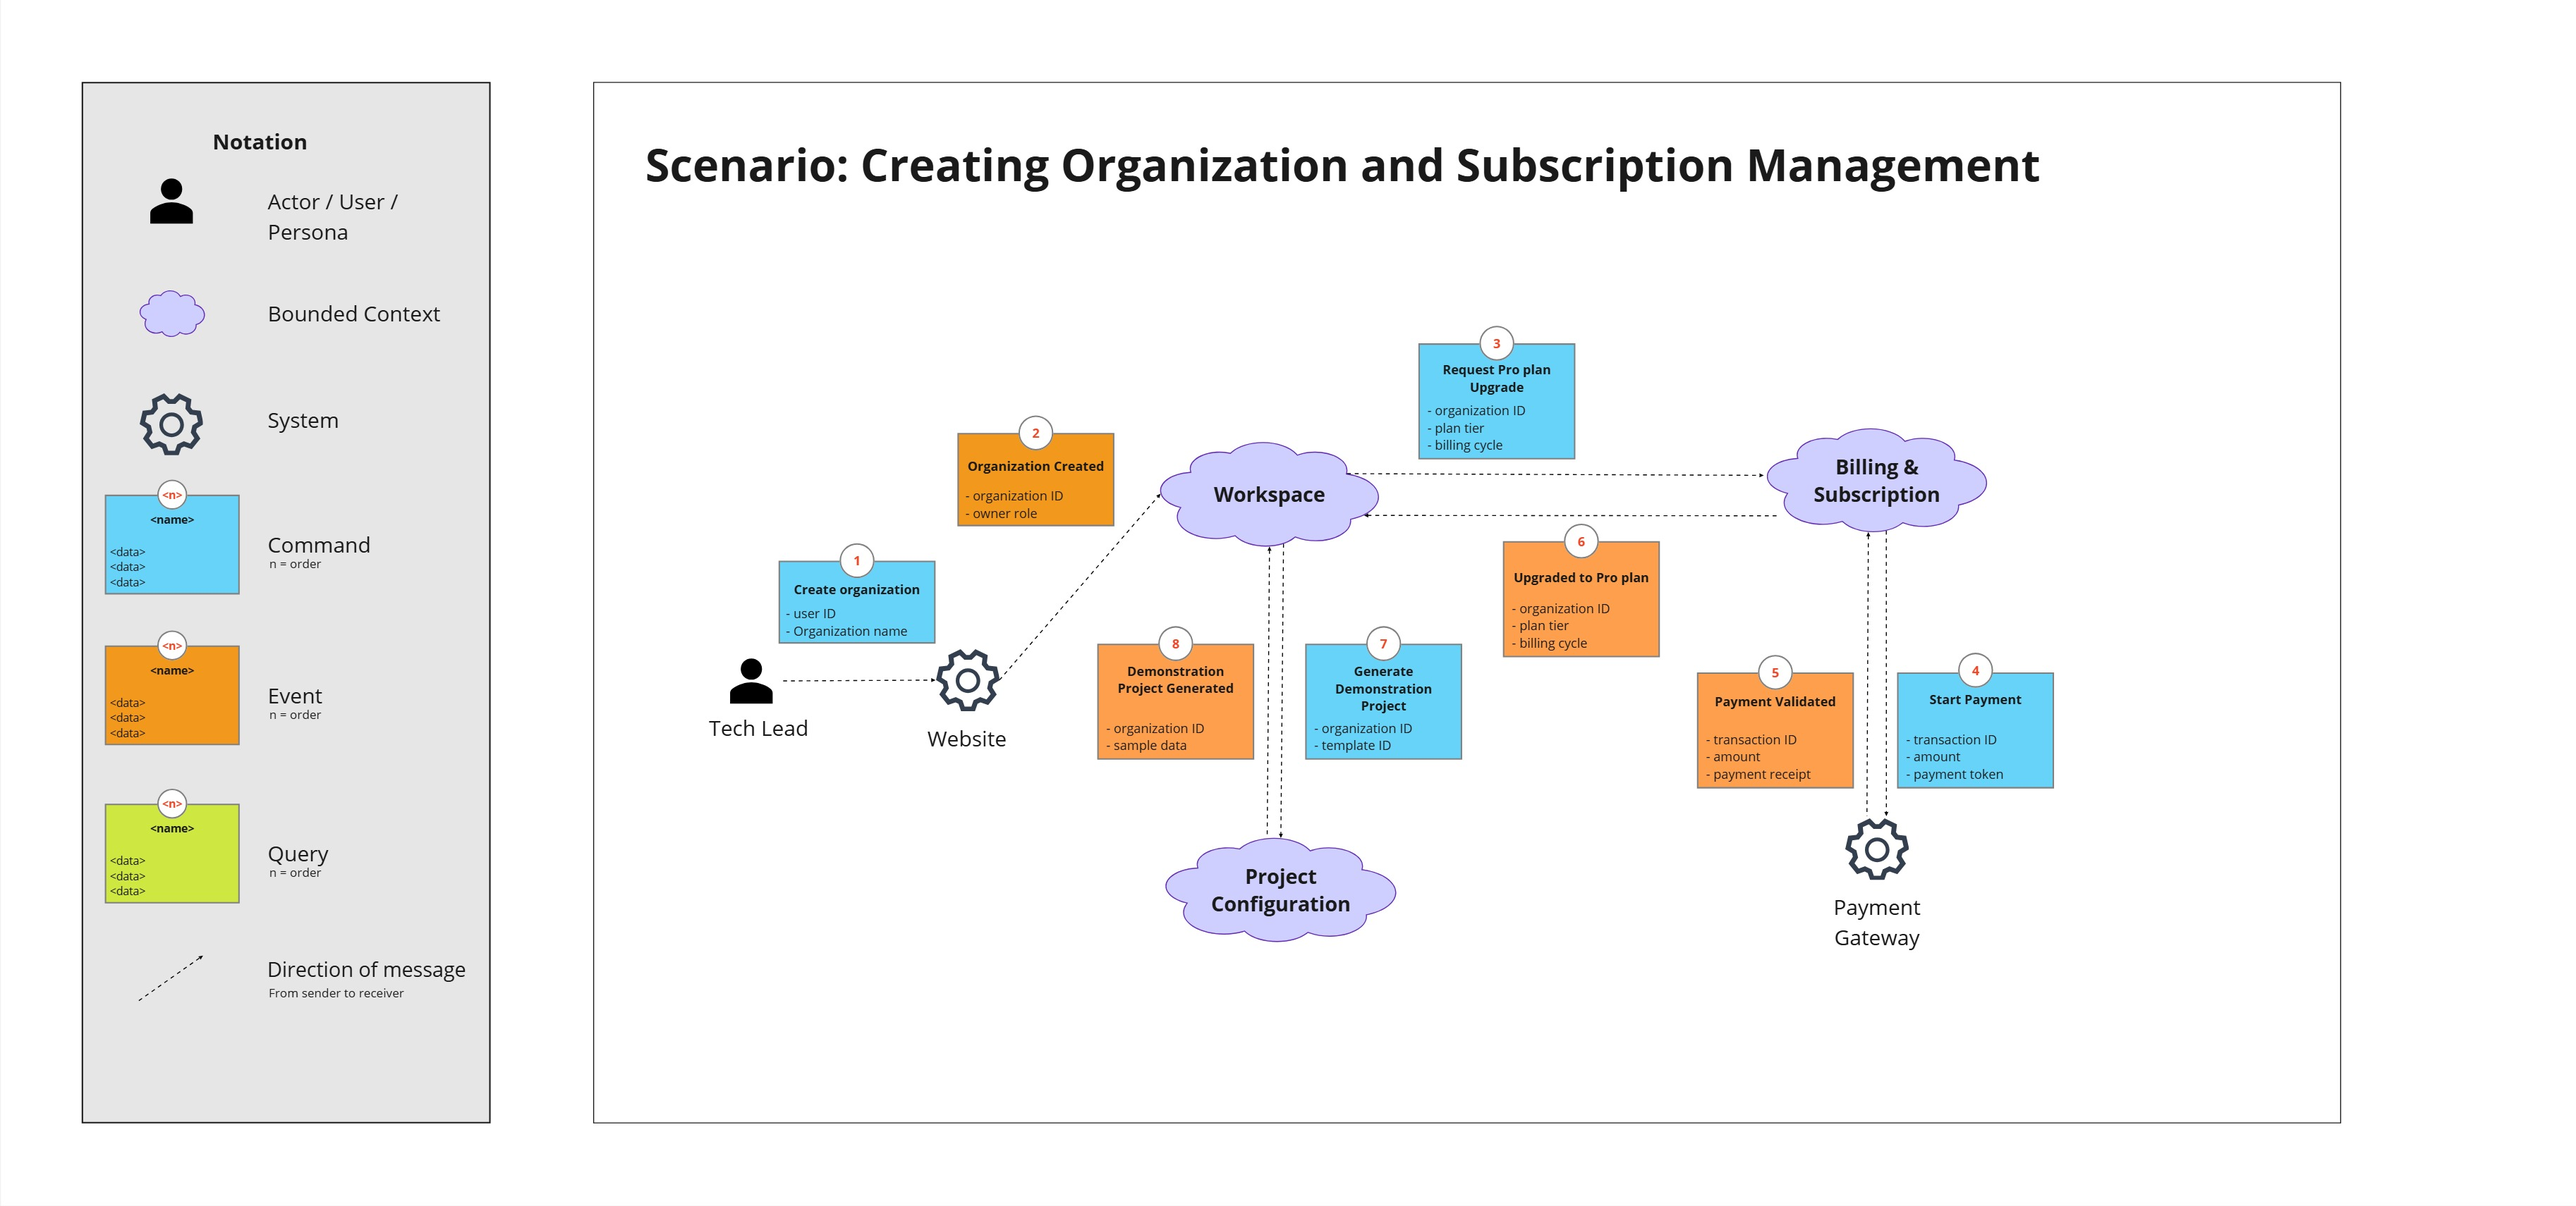
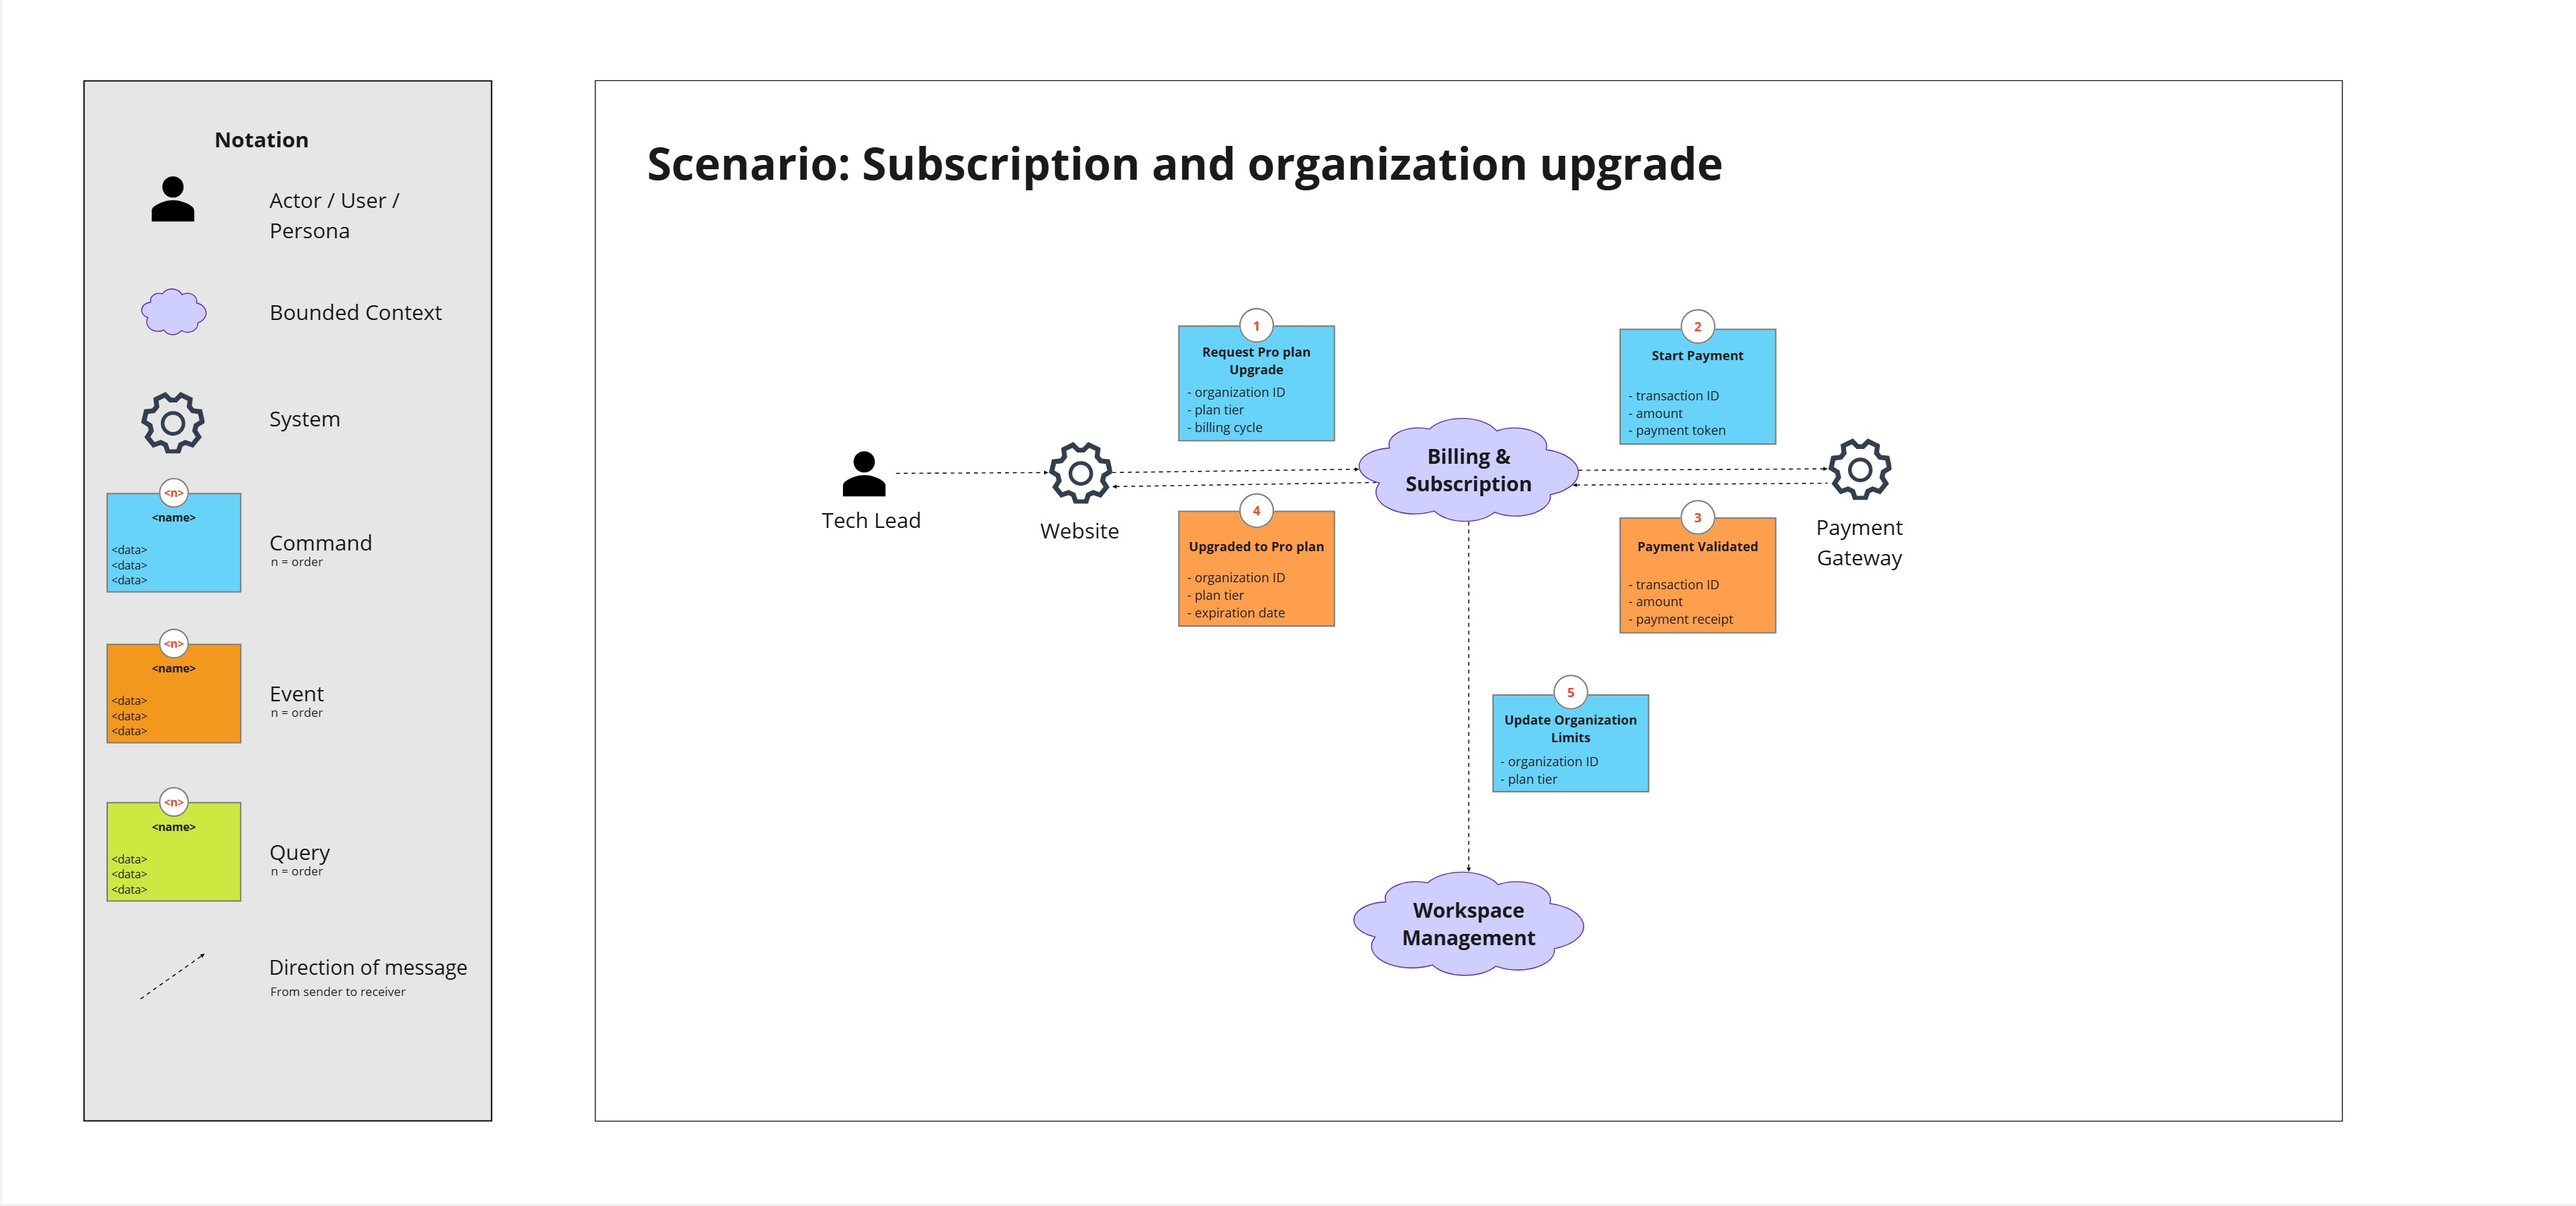
refactor: change domain message flow modeling according to new bounded contexts

diff --git a/README.md b/README.md
@@ -1346,39 +1346,50 @@ A través de este proceso analítico y evolutivo, el sistema quedó dividido arq
 
 ### 4.2.3.	Domain Message Flows Modeling
 
-En esta sección, explicamos y evidenciamos el proceso seguido para visualizar cómo deben colaborar los Bounded Contexts para resolver el caso principal del negocio. Para ello, aplicamos una variante técnica de Domain Storytelling enfocada en el flujo de mensajes. 
+En esta sección, aplicamos una variante técnica de Domain Storytelling enfocada en el flujo de mensajes para evidenciar cómo colaboran los 5 Bounded Contexts consolidados (**Requirement Discovery**, **Workspace Management**, **IAM**, **Billing & Subscription**, y **Integration Gateway**) y así resolver los casos principales del negocio.
 
 Utilizamos una notación específica para modelar la interacción:
 *   **Actor:** Persona interactuando con el sistema.
 *   **Bounded Context:** Módulo lógico de nuestro dominio.
 *   **System:** Sistemas o dependencias externas.
-*   **Command:** Intención de hacer algo en color azul.
-*   **Event:** Hecho que ya ocurrió en color naranja.
-*   **Query:** Solicitud de información en color verde.
+*   **Command:** Intención de hacer algo (color azul).
+*   **Event:** Hecho que ya ocurrió (color naranja).
+*   **Query:** Solicitud de información (color verde).
 *   **Direction of message:** Flecha que indica el flujo del emisor al receptor.
 
-A continuación, detallamos el paso a paso del diagrama elaborado para el flujo principal de Reqs-AI.
+A continuación, detallamos los escenarios elaborados.
 
-**Escenario Core: Captura de Sesión y Generación de Requerimientos**
+**Escenario 1: Captura de sesión y generación de historias (Core Flow)**
 
-Este flujo describe la colaboración desde que el usuario inicia la grabación hasta que se generan las historias de usuario estructuradas.
+Este flujo describe la colaboración principal desde que el usuario inicia la grabación de la reunión hasta que se estructuran las historias de usuario con la Inteligencia Artificial.
 
-1. **Inicio de Sesión:** El Actor **Analyst** utiliza el System **Website** para enviar el Command **Start Session** al Bounded Context **Meeting Capture**, el cual confirma el inicio emitiendo el Event **Recording Started**.
-2. **Procesamiento de Audio:** **Meeting Capture** delega la carga de trabajo enviando el Command **Divide Audio** al System **STT Service**, que retorna progresivamente el Event **Speech segments identified**.
-3. **Recopilación de Contexto:** Al finalizar, se emite el Command **Send Transcript** hacia **Requirement Generation**. Este contexto necesita el glosario del cliente, por lo que envía un Query **Request Project Data** a **Project Configuration**, recibiendo como respuesta el Event **Project data sent**.
-4. **Inferencia IA:** Con el texto y el contexto listos, **Requirement Generation** envía el Command **Generate User story** al System **LLM Service**. Una vez procesado, se consolida el flujo emitiendo el Event final **User story generated**.
+1. **Inicio y Procesamiento:** El Actor **Product Owner** envía el Command **Start Session** al Bounded Context **Requirement Discovery**. Este contexto gestiona el streaming enviando el Command **Divide Audio** al System **STT Service**, que retorna progresivamente el Event **Speech segments identified**.
+2. **Recopilación de Contexto (RAG):** Una vez finalizada la sesión, **Requirement Discovery** necesita los datos y reglas de negocio del cliente, por lo que envía un Query **Request Project Data** a **Workspace Management**, recibiendo el Event **Project data sent** (que incluye el glosario).
+3. **Inferencia IA:** Con el texto de la reunión y el contexto listos, **Requirement Discovery** envía el Command **Generate User story** al System **LLM Service**. Se consolida el resultado emitiendo el Event final **User story generated** para que el Product Owner lo revise.
 
-![Scenario1](assets/4.Strategic-Level-Product-Design/4.2.Strategic-Level-DDD/4.2.3.Domain-Message-Flows-Modeling/Scenario1.jpg)
+![Domain Message Flow](assets/4.Strategic-Level-Product-Design/4.2.Strategic-Level-DDD/4.2.3.Domain-Message-Flows-Modeling/Scenario1.jpg)
 
-**Escenario: Creación de Organización y Suscripción**
+**Escenario 2: Suscripción y mejora de organización**
 
-Este flujo detalla el onboarding B2B, donde un líder técnico registra su empresa, realiza el pago de un plan Pro y el sistema prepara su entorno de trabajo inicial.
+Este flujo se enfoca estrictamente en la coreografía arquitectónica que ocurre cuando una organización decide adquirir un plan de pago. Demuestra cómo el sistema reacciona para actualizar las capacidades del entorno sin necesidad de intervención manual de un administrador.
 
-1. **Creación del Espacio:** El Actor **Tech Lead** usa el System **Website** para enviar el Command **Create organization** al Bounded Context **Workspace**, el cual notifica el éxito de la operación con el Event **Organization Created**.
-2. **Gestión del Pago:** Para desbloquear los límites de IA, se emite el Command **Request Pro plan Upgrade** hacia **Billing & Subscription**. Este contexto se comunica con el System **Payment Gateway** mediante el Command **Start Payment** y espera el Event **Payment Validated**.
-3. **Activación y Onboarding:** Tras el pago exitoso, se notifica a Workspace con el Event **Upgraded to Pro plan**. Como parte del onboarding automático, Workspace envía el Command **Generate Demonstration Project** a **Project Configuration**, finalizando el flujo con el Event **Demonstration Project Generated**.
+1. **Solicitud de Suscripción:** El Actor **Tech Lead** envía el Command **Request Pro Upgrade** a **Billing & Subscription**.
+2. **Procesamiento Externo:** **Billing & Subscription** delega la transacción enviando el Command **Process Payment** al System **Payment Gateway**. El sistema externo valida y retorna el resultado.
+3. **Propagación de Beneficios:** Una vez consolidado el pago, **Billing & Subscription** emite el Event **Upgraded to Pro Plan**.
+4. **Aprovisionamiento Automático:** El contexto **Workspace Management** escucha este evento y reacciona automáticamente actualizando los límites operativos de la organización.
 
-![Scenario2](assets/4.Strategic-Level-Product-Design/4.2.Strategic-Level-DDD/4.2.3.Domain-Message-Flows-Modeling/Scenario2.jpg)
+![Domain Message Flow](assets/4.Strategic-Level-Product-Design/4.2.Strategic-Level-DDD/4.2.3.Domain-Message-Flows-Modeling/Scenario2.jpg)
+
+**Escenario 3: Sincronización Ágil (Exportación a Jira)**
+
+Este es un flujo netamente operativo y post-procesamiento. Ocurre después de que el usuario ya utilizó el sistema core y desea llevar el resultado final hacia sus herramientas de gestión de proyectos.
+
+1. **Aprobación:** Tras haber revisado las historias generadas por la IA, el Actor **Tech Lead** envía el Command **Approve Story** a **Requirement Discovery**.
+2. **Propagación:** El contexto core registra el cambio y emite el Event **Story Approved**.
+3. **Capa Anticorrupción:** El evento es escuchado por el **Integration Gateway**. Este contexto actúa como ACL (aislando al core domain de los detalles de APIs externas), mapea el modelo interno al formato esperado por el sistema externo, y envía el Command **Create Issue** al System **PM Service**.
+4. **Confirmación y Retorno:** El System **PM Service** responde exitosamente con los datos del ticket. El **Integration Gateway** traduce esta respuesta al lenguaje de nuestro dominio y emite el Event **Story Exported**.
+
+![Domain Message Flow](assets/4.Strategic-Level-Product-Design/4.2.Strategic-Level-DDD/4.2.3.Domain-Message-Flows-Modeling/Scenario3.jpg)
 
 ### 4.2.4.	Bounded Context Canvases
 
